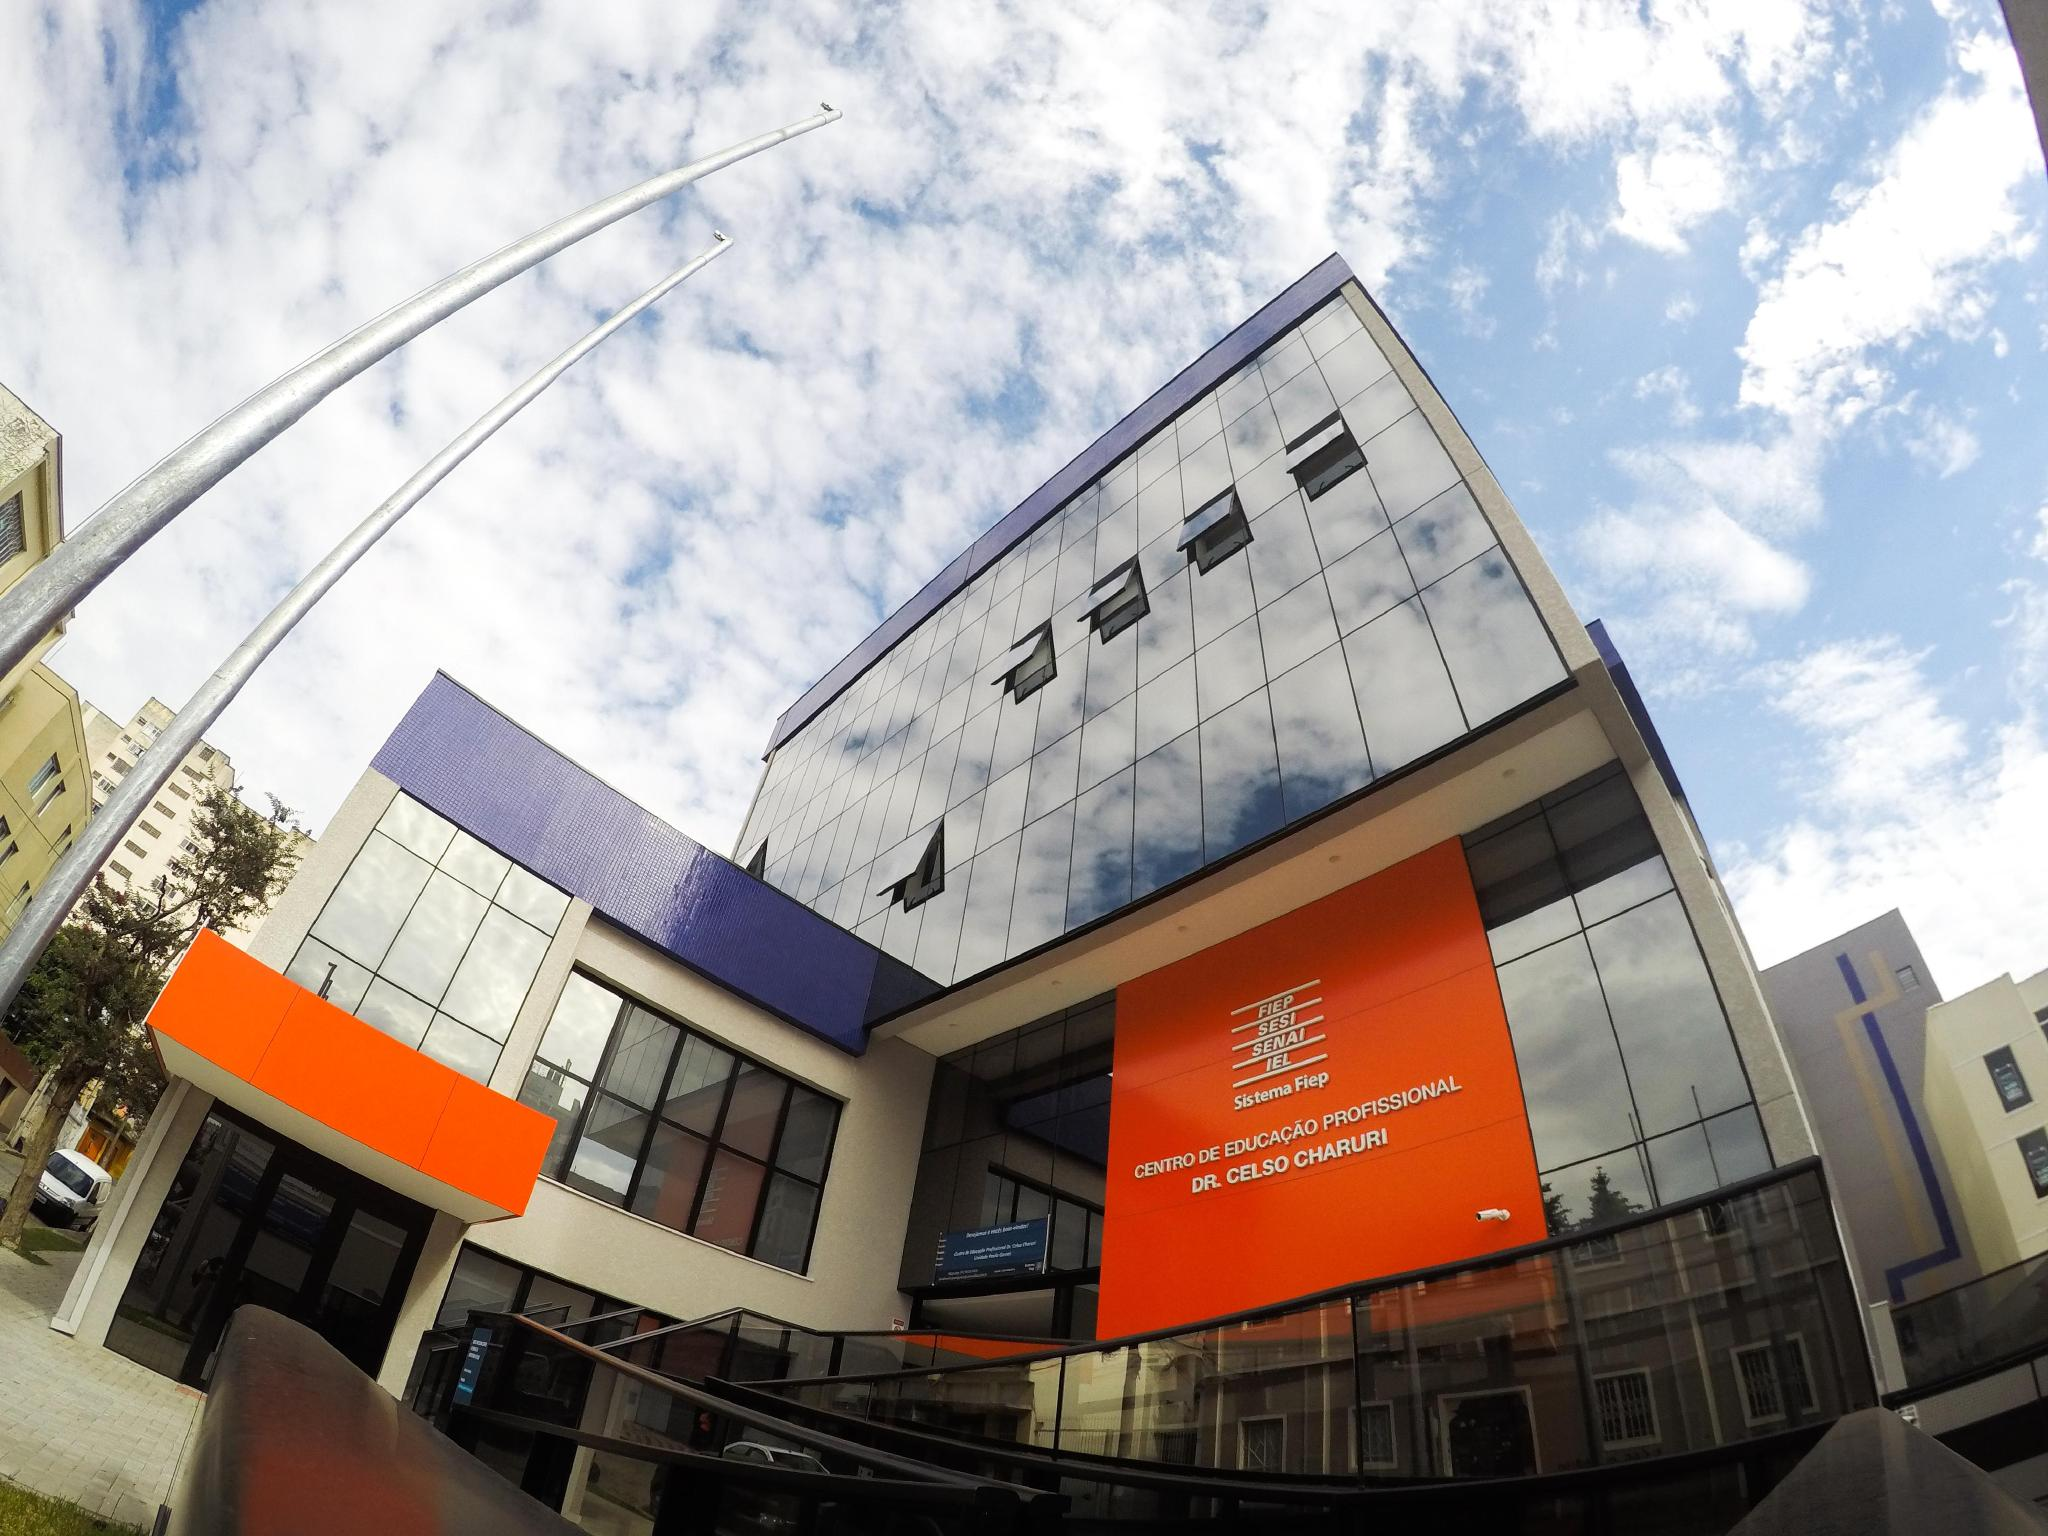
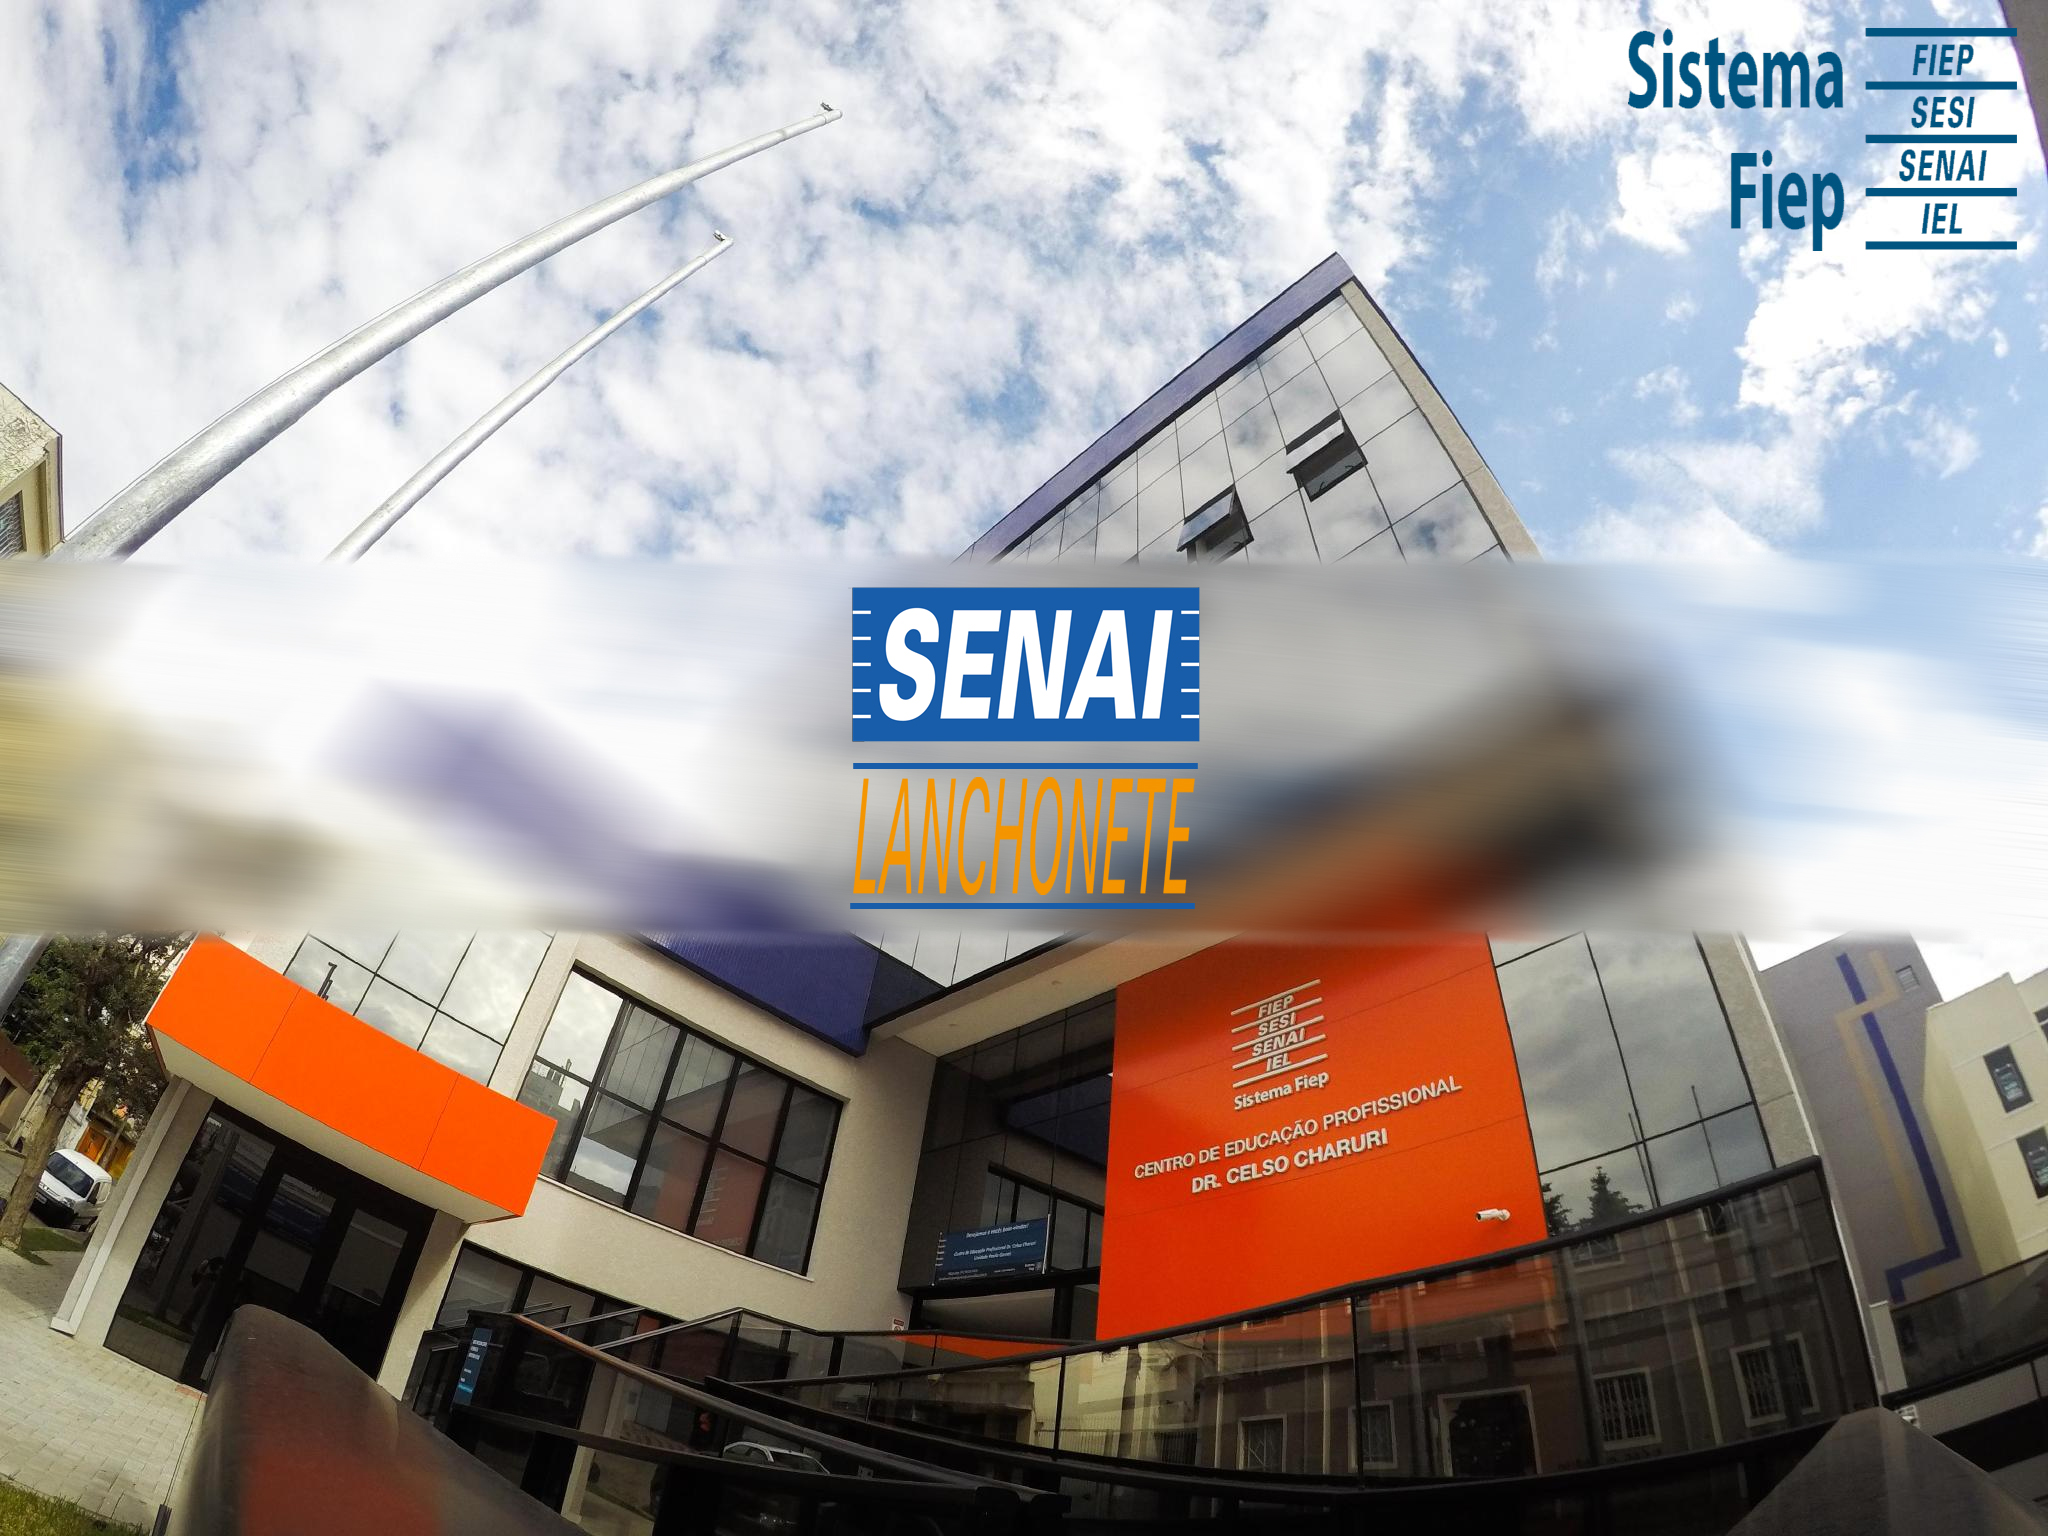
att showroom

diff --git a/Showroom/style.css b/Showroom/style.css
@@ -30,59 +30,23 @@
 
 /* Banner */
 #s1{
-    background-position: 20px;
     display: flex;
-    align-items: end;
+    align-items: center;
     justify-content: center;
-    height: auto;
- 
-    /* width: auto; */
+    height: 100vh;
+
 }
 
-
-/* Fundo do banner */
-#img-wrap-left{
-    background-color: var(--laranja);
-    min-height: 90vh;
-    max-width: 110vw;
-    min-width: 40%;
-    width: 90vw;
-}
-
-#img-wrap-right{
-    min-height: 90vh;
-    max-width: 110vw;
-    width: 80vw;
-    background-image: url(../Assets/Frente-senai.jpg);
-    background-repeat: no-repeat;
-    background-size: cover;
-}
-
-
-#img-wrap-right h3{
-    text-align: center !important;
+#s1 img{
+  
+    display: flex;
     justify-content: center;
-    background-size: cover !important;
-    margin-top: 28px;
-}
-/* Texto da esquerda Banner */
-#img-wrap-left p{
-    font-family:sans-serif;
-    text-align: center;
-    justify-content: center;
-    margin-top: 50px;
-    color: white;
-    font-size: large;
-}
-/* Texto da direita Banner */
-#img-wrap-right p{
-    font-family: sans-serif;
-    text-align: center;
-    margin-left: 5%;
-    color: white;
-    font-size: large;
-}
+    align-items: center;
+    align-self: center;
+    width: 100rem;
+    height: 47rem;
 
+}
 
 /* Cartão */
 #s2{
@@ -247,15 +211,3 @@ footer img:hover{
     z-index: 1000000;
 }
 
-
-@media (width<800px){
-    #s1{flex-direction: column;}
-    #img-wrap-left{
-        margin-right: 10px;
-    }
-    #img-wrap-right{
-        align-items: stretch;
-        width: 1200px;
-       
-    }
-}

diff --git a/Showroom/index.html b/Showroom/index.html
@@ -41,15 +41,7 @@
     <main>
         <!--BANNER-->
         <section id="s1">
-            <!-- Pensando em botar um gif/video de padaria ou uma imagem em movimento
-                 da cantina,um em cada div -->
-            <div id="img-wrap-right">
-                <h3>Lanchonete do senai</h3>
-                <p>Um espaço dedicado aos alunos, professores e funcionários, 
-                    oferecendo opções de alimentação rápida e acessível dentro 
-                    das unidades do Serviço Nacional de Aprendizagem Industrial (SENAI). 
-                    O local é ideal para quem busca refeições saborosas durante os intervalos das aulas e atividades.</p>
-            </div>
+            <img src="../Assets/Frente-senai.jpg" alt="Frentesenai">        
         </section>
 
 
